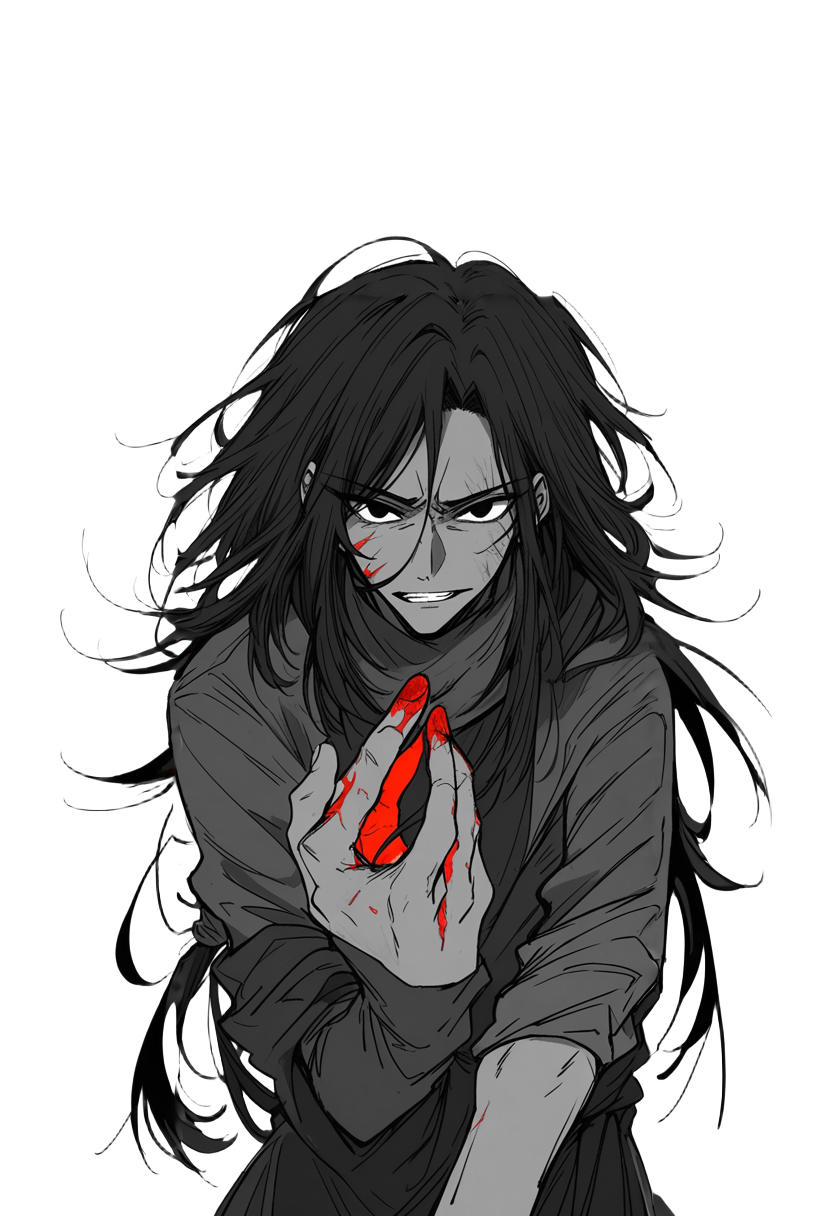
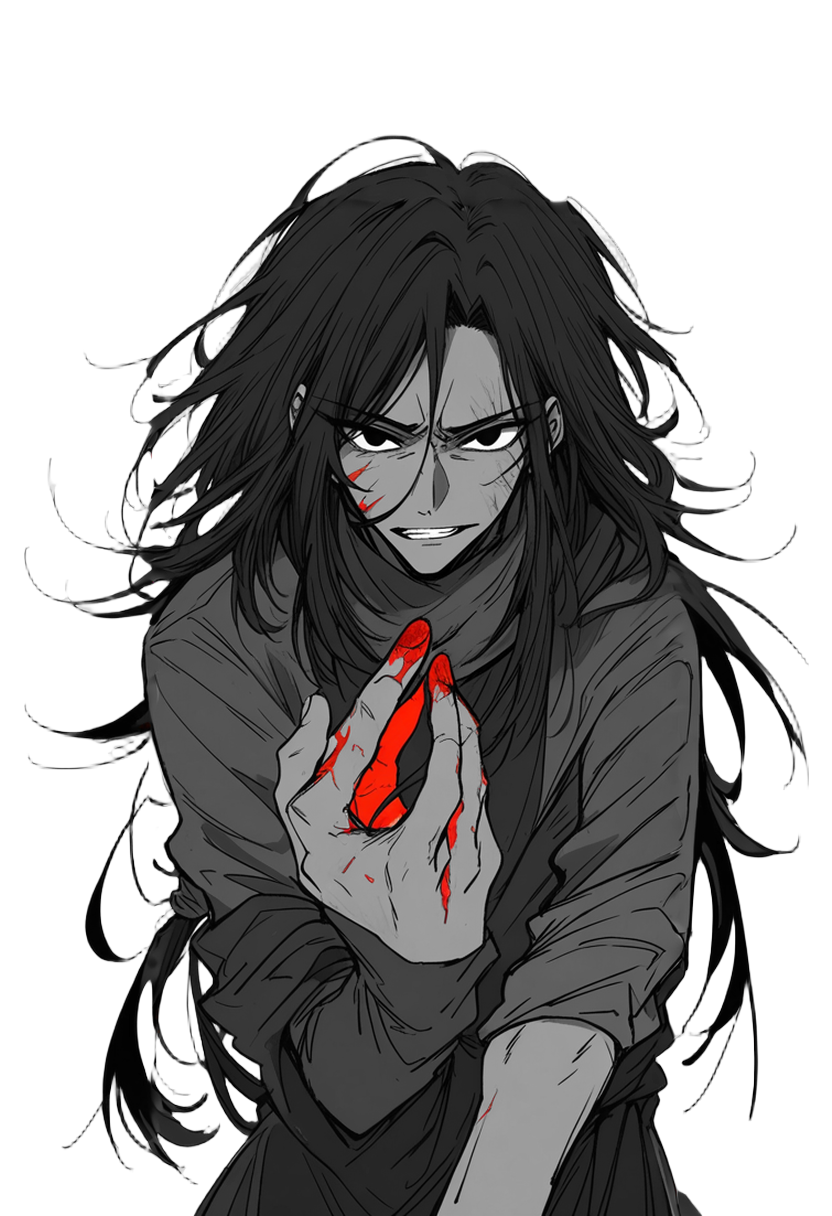
0.4.93 바깥 그린 입상 크기 되돌리기(정수리 여백 40px) — 참새·소아 등 18장
Claude-Session: https://claude.ai/code/session_01VNwHYr6PKmgoG2ds8pmuJ4

diff --git a/tools/review/ART_PIPELINE.md b/tools/review/ART_PIPELINE.md
@@ -20,6 +20,7 @@
   - 뽑은 뒤 `python3 tools/art/edge_check.py 그림.png`: 인물이 위 24px 안(머리), 좌우 16px 안(팔·소매·무기)에 닿으면 「잘림」. 아래는 허벅지에서 끊는 구도라 봐주지 않는다. 잘림이면 쓰지 않고 다시 뽑는다(다섯 번까지). 다섯 번 다 잘리면 그 그림은 넘기고 목록에 적는다.
   - 2026-11-21 v19 상황 그림 11장을 검사하니 일곱 장이 잘렸다(곽산 숙임·하진무 무릎·호치 무릎·쥐눈이 장 겁·진백 손 뻗음·교주 노여움·소아 피투성이).
 - **이미 쓰는 그림이 잘렸을 때는 새로 뽑지 않고 바깥을 그린다(0.4.93)**: 그림을 판 안에 82%쯤으로 앉히고, 잘린 가장자리(좌·우·위 90px 띠 안에 인물이 닿은 자리)와 그 바깥만 가림판으로 열어 다시 그린다(`VNArt/mcp-workflows/_edit_outpaint.json` — VAEEncode → SetLatentNoiseMask → 변화 0.9). 얼굴·몸은 그대로라 같은 사람이 남는다. 잠깐 edit.json 자리에 끼우고, 끝나면 표정 작업 흐름(_edit_expression.json)으로 되돌린다. 표정만 다른 짝 그림은 새 바탕에 원래 얼굴(달라진 화소)을 다시 앉힌다. 뒤에 post_v21(회색+붉은 점) → fit_portrait → edge_check. 검은 머리칼 사이 흰 틈이 남으면 투명 바탕에서 흰 화소로만 번져 지운다.
+  - **바깥을 그린 뒤 크기를 되돌린다(언메이커: 참새·소아가 너무 내려갔다)**: 판 안에 82%로 앉혀 그렸으니 그대로 두면 인물이 작아지고 아래로 처진다(게임은 그림 높이로 키를 맞춘다). 기준: 정수리 여백을 다른 입상과 같은 40px로 — 인물을 잘라 키운다. 좌우 여백 24px은 극장판에 보이는 위 70%에서만 지킨다(허벅지 쪽은 창 밖). 도끼·흩날린 머리칼처럼 위쪽이 넓은 그림(청묘·진백 멱살·노인 맨얼굴)은 좌우에 걸려 110~130px에서 멈춘다.
 - 장마다 최대 다섯 번, 안 되면 다음으로. 장 사이 1분 30초 쉼. 1.5배 고해상 다시 그리기(edit) 방식은 쓰지 않는다.
 - 프롬프트 함정: aura 같은 말은 물결처럼 깨지고, wings는 날개가 돋는다. 산적·광부 등은 왜색(카타나·오비) 배제어를 붙인다.
 - 원본 보관: `unity-art-v16/`(v16 후처리분), `unity-art-v17/`(표정), `unity-art-v18/`(조연 13장).

diff --git a/tools/review/CHANGES_0.4.3.md b/tools/review/CHANGES_0.4.3.md
@@ -17,6 +17,7 @@
   - 바깥 그리기(아웃페인팅)로 잘린 머리칼·팔·소매·무기를 판 안에서 마저 그렸다 — 얼굴·몸은 원래 그림 그대로라 같은 사람이다: 소아(기본·웃음·사나움) · 암향(기본·고통) · 참새 · 청묘(기본·웃음·눈물·승복) · 진백(슬픔·멱살) · 용개(기본·굳은 얼굴) · 운검사태 · 염가 · 노인 맨얼굴(기본·슬픔). 웃음·눈물처럼 표정만 다른 그림은 새 바탕에 원래 얼굴을 다시 앉혔다.
   - 여백만 모자랐던 것은 판에 맞춰 앉혔다: 단목결(기본·고통) · 곽산 슬픔 · 참새 굳은 얼굴.
   - 하진무 굳은 얼굴: 수염 없는 다른 사람처럼 나오던 것 → 하진무 기본 그림에 굳은 표정만 다시 그렸다. 하진무 무릎 그림 아래 붉은·흰 덩어리, 할멈 떨림 그림의 흰 테두리를 걷었다.
+  - 바깥을 그린 그림이 작아지고 아래로 처지던 것(언메이커: 참새·소아가 너무 내려갔다) → 정수리 여백을 다른 입상과 같은 40px로 키워 앉혔다(위가 넓은 청묘·진백 멱살·노인 맨얼굴은 좌우에 걸려 조금 덜).
   - 원본 `unity-art-v22/`. 바깥 그리기 작업 흐름은 `VNArt/mcp-workflows/_edit_outpaint.json`(edit.json은 표정 작업 흐름으로 되돌려 둠).
 
 **0.4.92(빌드 전, 2026-11-21) — 인장 손질**
